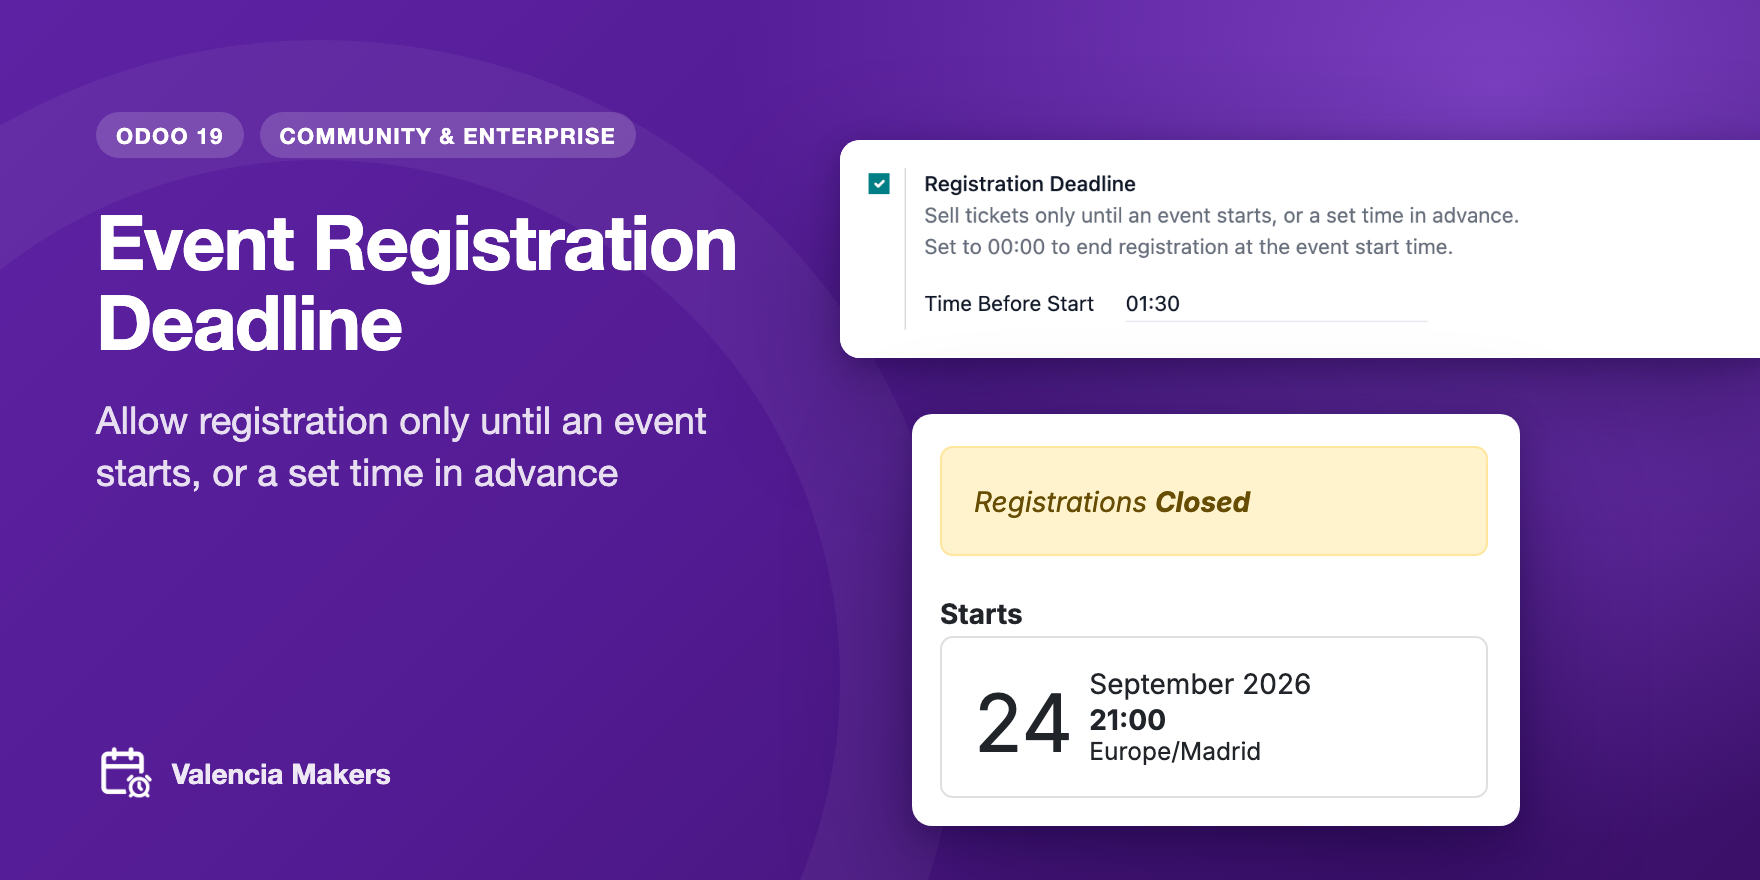
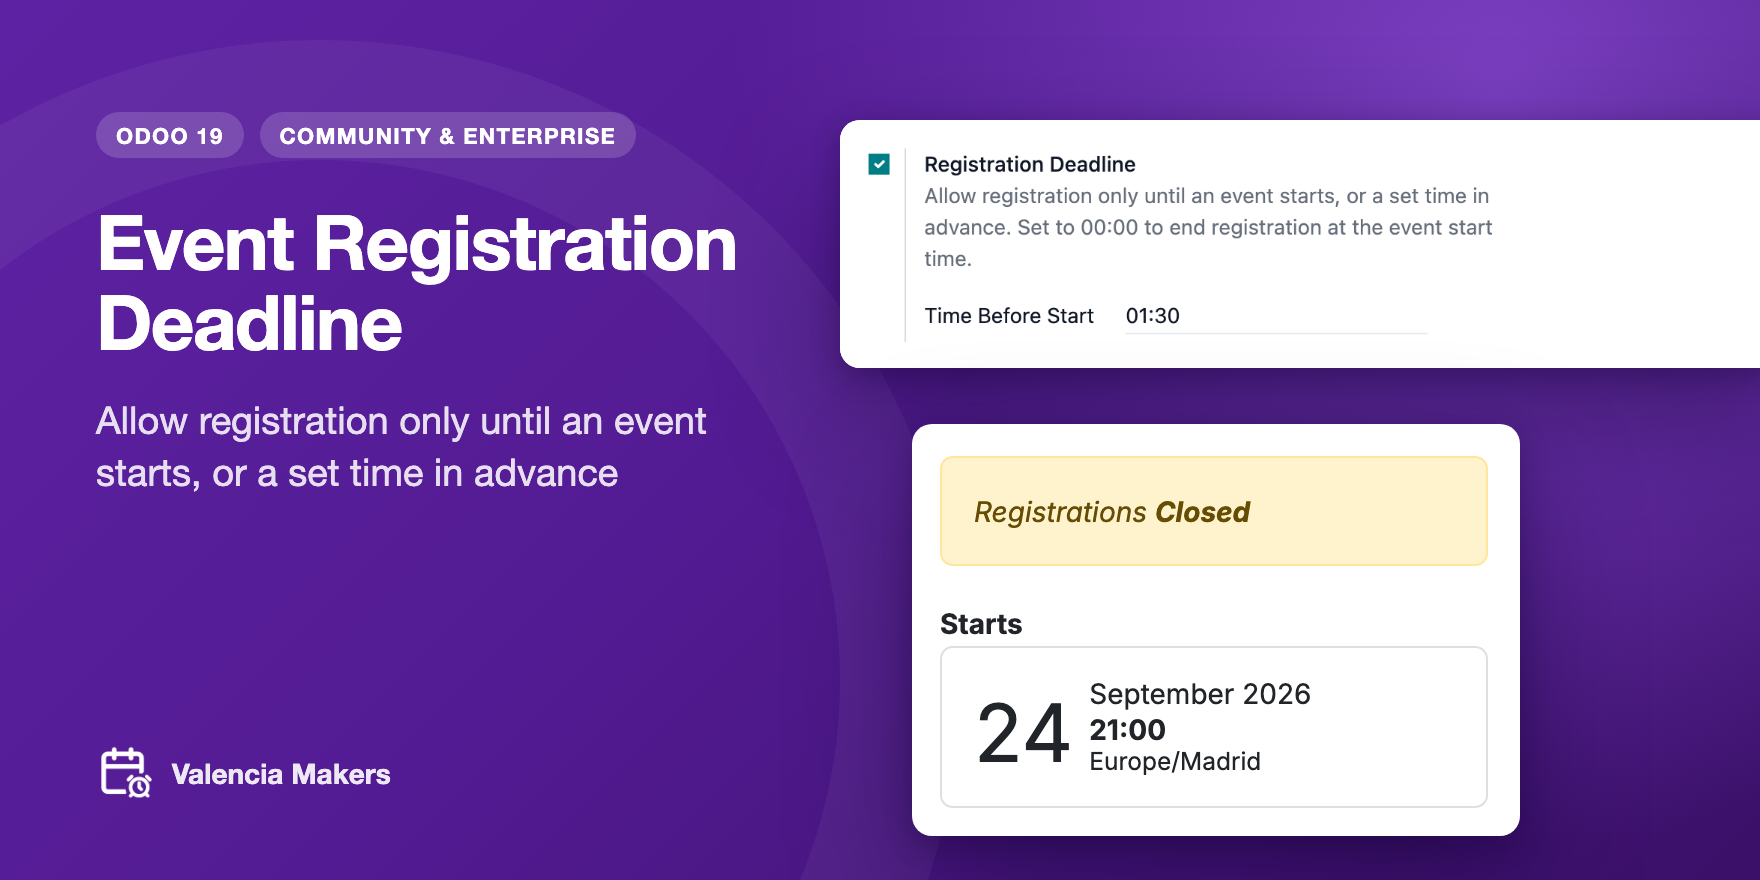
Say "Allow registration only until an event starts" in the deadline setting's help
- The setting's help in the backend still said "Sell tickets", unlike the summary and store page;
  the field help and the view's setting help now match, with Spanish and Catalan following.
- Version 19.0.1.0.3, as a file Odoo loads changed; the changelog says there is no change in
  behaviour.
- The longer help wraps to three lines, so the settings screenshot is retaken taller and the
  cover's settings card resized to it, keeping the 14px inner margin and 28px gap.

diff --git a/tools/covers/vmk_event_registration_deadline.html b/tools/covers/vmk_event_registration_deadline.html
@@ -13,14 +13,14 @@
     </div>
     <div class="brand"><img src="../../vmk_event_registration_deadline/static/description/icon.png" alt="">Valencia Makers</div>
     <!-- Behind: the Registration Deadline setting, the right half of deadline_settings.png
-         (1097x274 CSS px at 2x). -->
-    <div class="shot" style="left: 420px; top: 70px; width: 470px; height: 108.6px;">
+         (1097x298 CSS px at 2x). -->
+    <div class="shot" style="left: 420px; top: 60px; width: 470px; height: 124.3px;">
         <img src="../../vmk_event_registration_deadline/static/description/deadline_settings.png"
              style="width: 822px; left: -375.3px; top: -90.2px;" alt="">
     </div>
     <!-- In front: the website's Registrations Closed banner and start time, from the sidebar of
          main_screenshot.png (1140x400 CSS px at 2x). -->
-    <div class="shot" style="left: 456px; top: 207px; width: 304px; height: 206px;">
+    <div class="shot" style="left: 456px; top: 212px; width: 304px; height: 206px;">
         <div style="position: absolute; left: 14px; top: 14px; width: 276px; height: 178px; overflow: hidden;">
             <img src="../../vmk_event_registration_deadline/static/description/main_screenshot.png"
                  style="width: 1140px; left: -851px; top: -2px;" alt="">

diff --git a/vmk_event_registration_deadline/models/res_config_settings.py b/vmk_event_registration_deadline/models/res_config_settings.py
@@ -19,7 +19,7 @@ class ResConfigSettings(models.TransientModel):
     vmk_registration_deadline_enabled = fields.Boolean(
         string="Registration Deadline",
         config_parameter=ENABLED_PARAM,
-        help="Sell tickets only until an event starts, or a set time in "
+        help="Allow registration only until an event starts, or a set time in "
         "advance. Set to 00:00 to end registration at the event start time.",
     )
     # No `help`: a `setting` labels its own fields and does not give them the

diff --git a/vmk_event_registration_deadline/__manifest__.py b/vmk_event_registration_deadline/__manifest__.py
@@ -4,7 +4,7 @@
 {
     "name": "Event Registration Deadline",
     "summary": "Allow registration only until an event starts, or a set time in advance",
-    "version": "19.0.1.0.2",
+    "version": "19.0.1.0.3",
     "author": "Valencia Makers",
     "license": "LGPL-3",
     "category": "Marketing/Events",

diff --git a/vmk_event_registration_deadline/doc/index.rst b/vmk_event_registration_deadline/doc/index.rst
@@ -35,6 +35,11 @@ the whole event.
 
 **Changelog**
 
+*19.0.1.0.3 (24 September 2026)*
+
+- The setting's help reads "Allow registration only until an event starts", since a free event has
+  registrations but no tickets. No change in behaviour.
+
 *19.0.1.0.2 (24 September 2026)*
 
 - Licensed LGPL-3, and credited to Valencia Makers. No change in behaviour.
